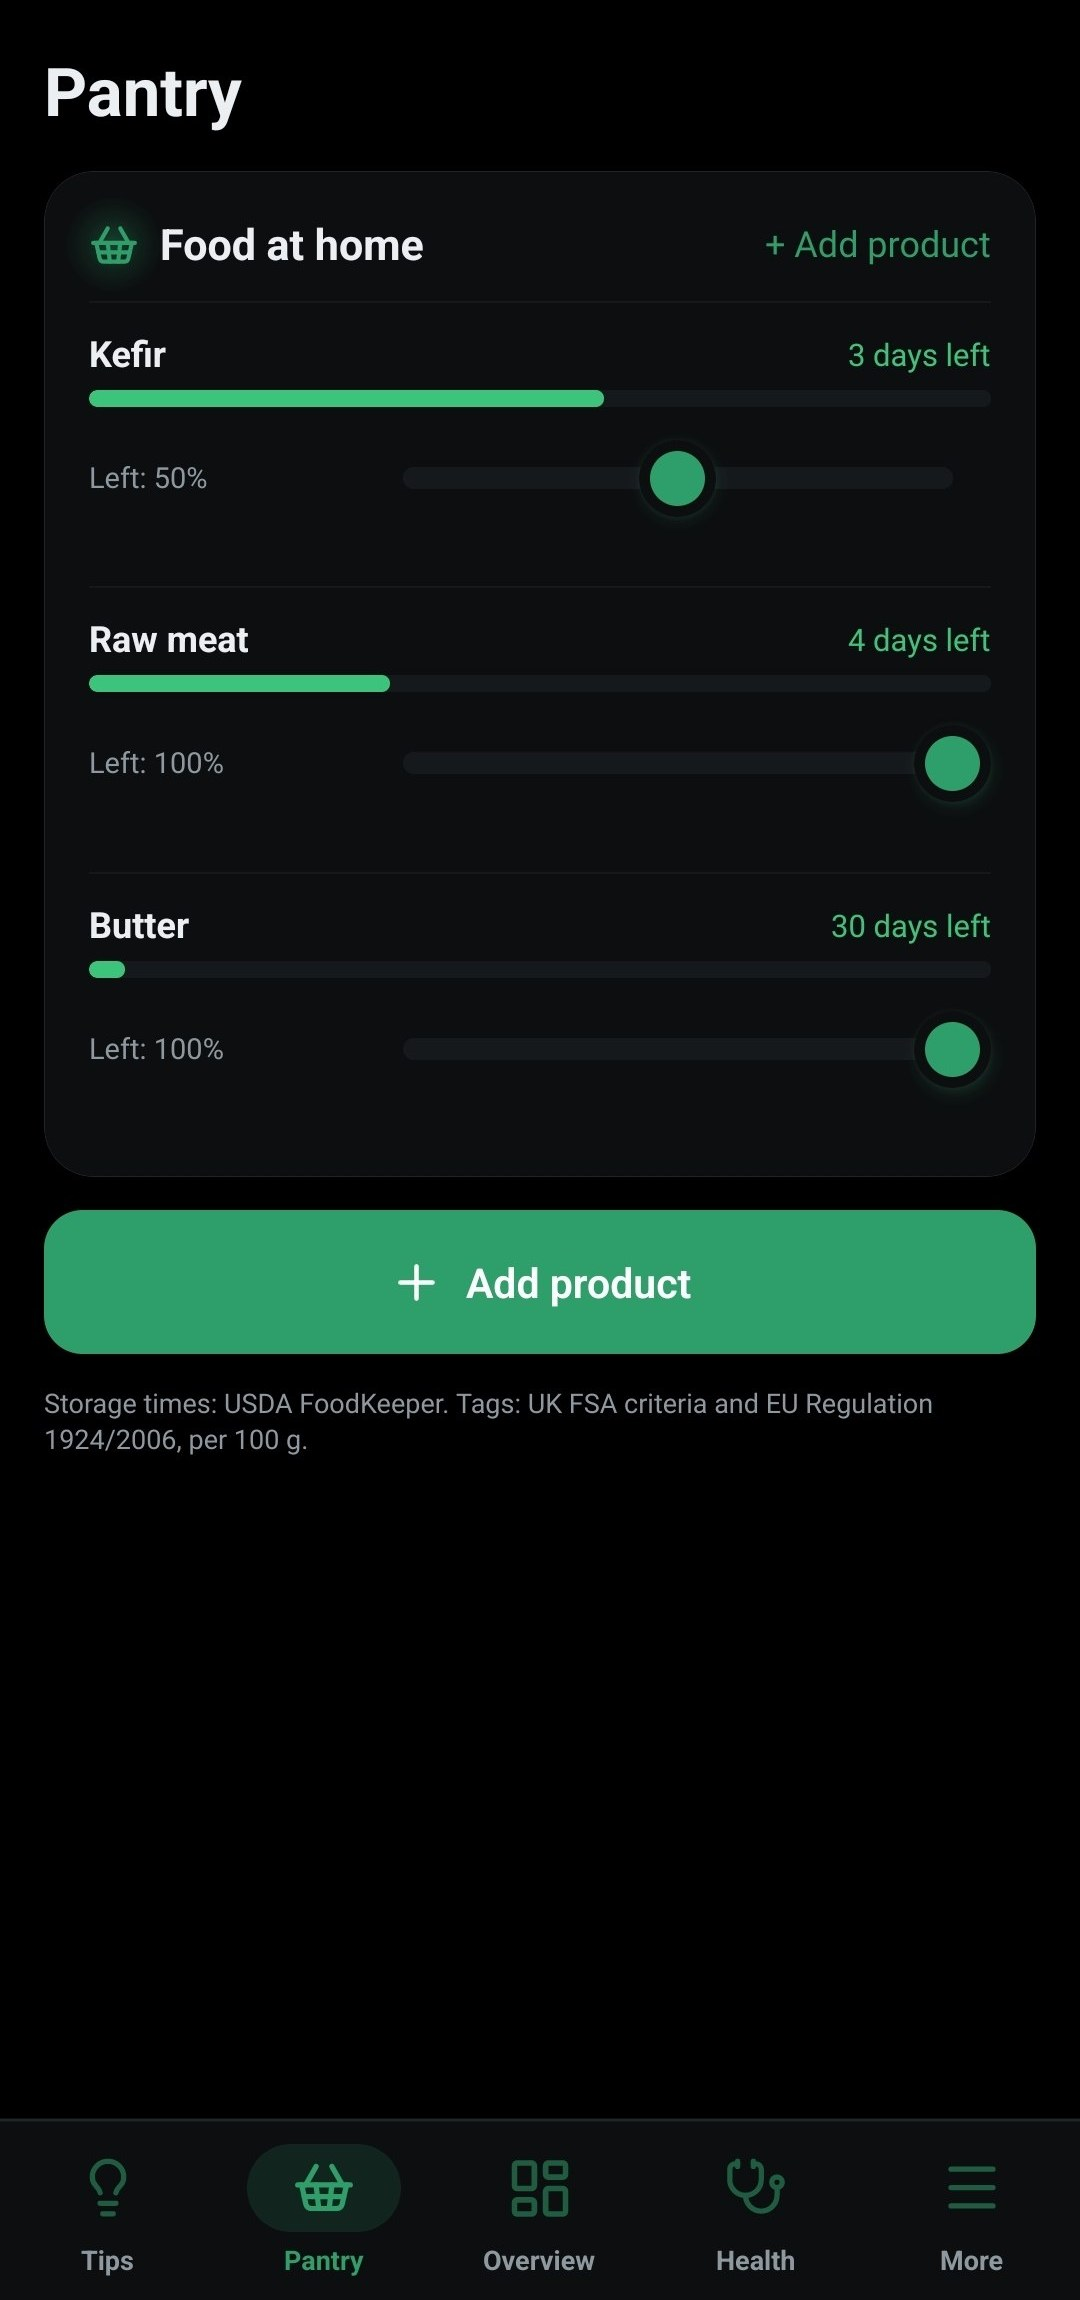
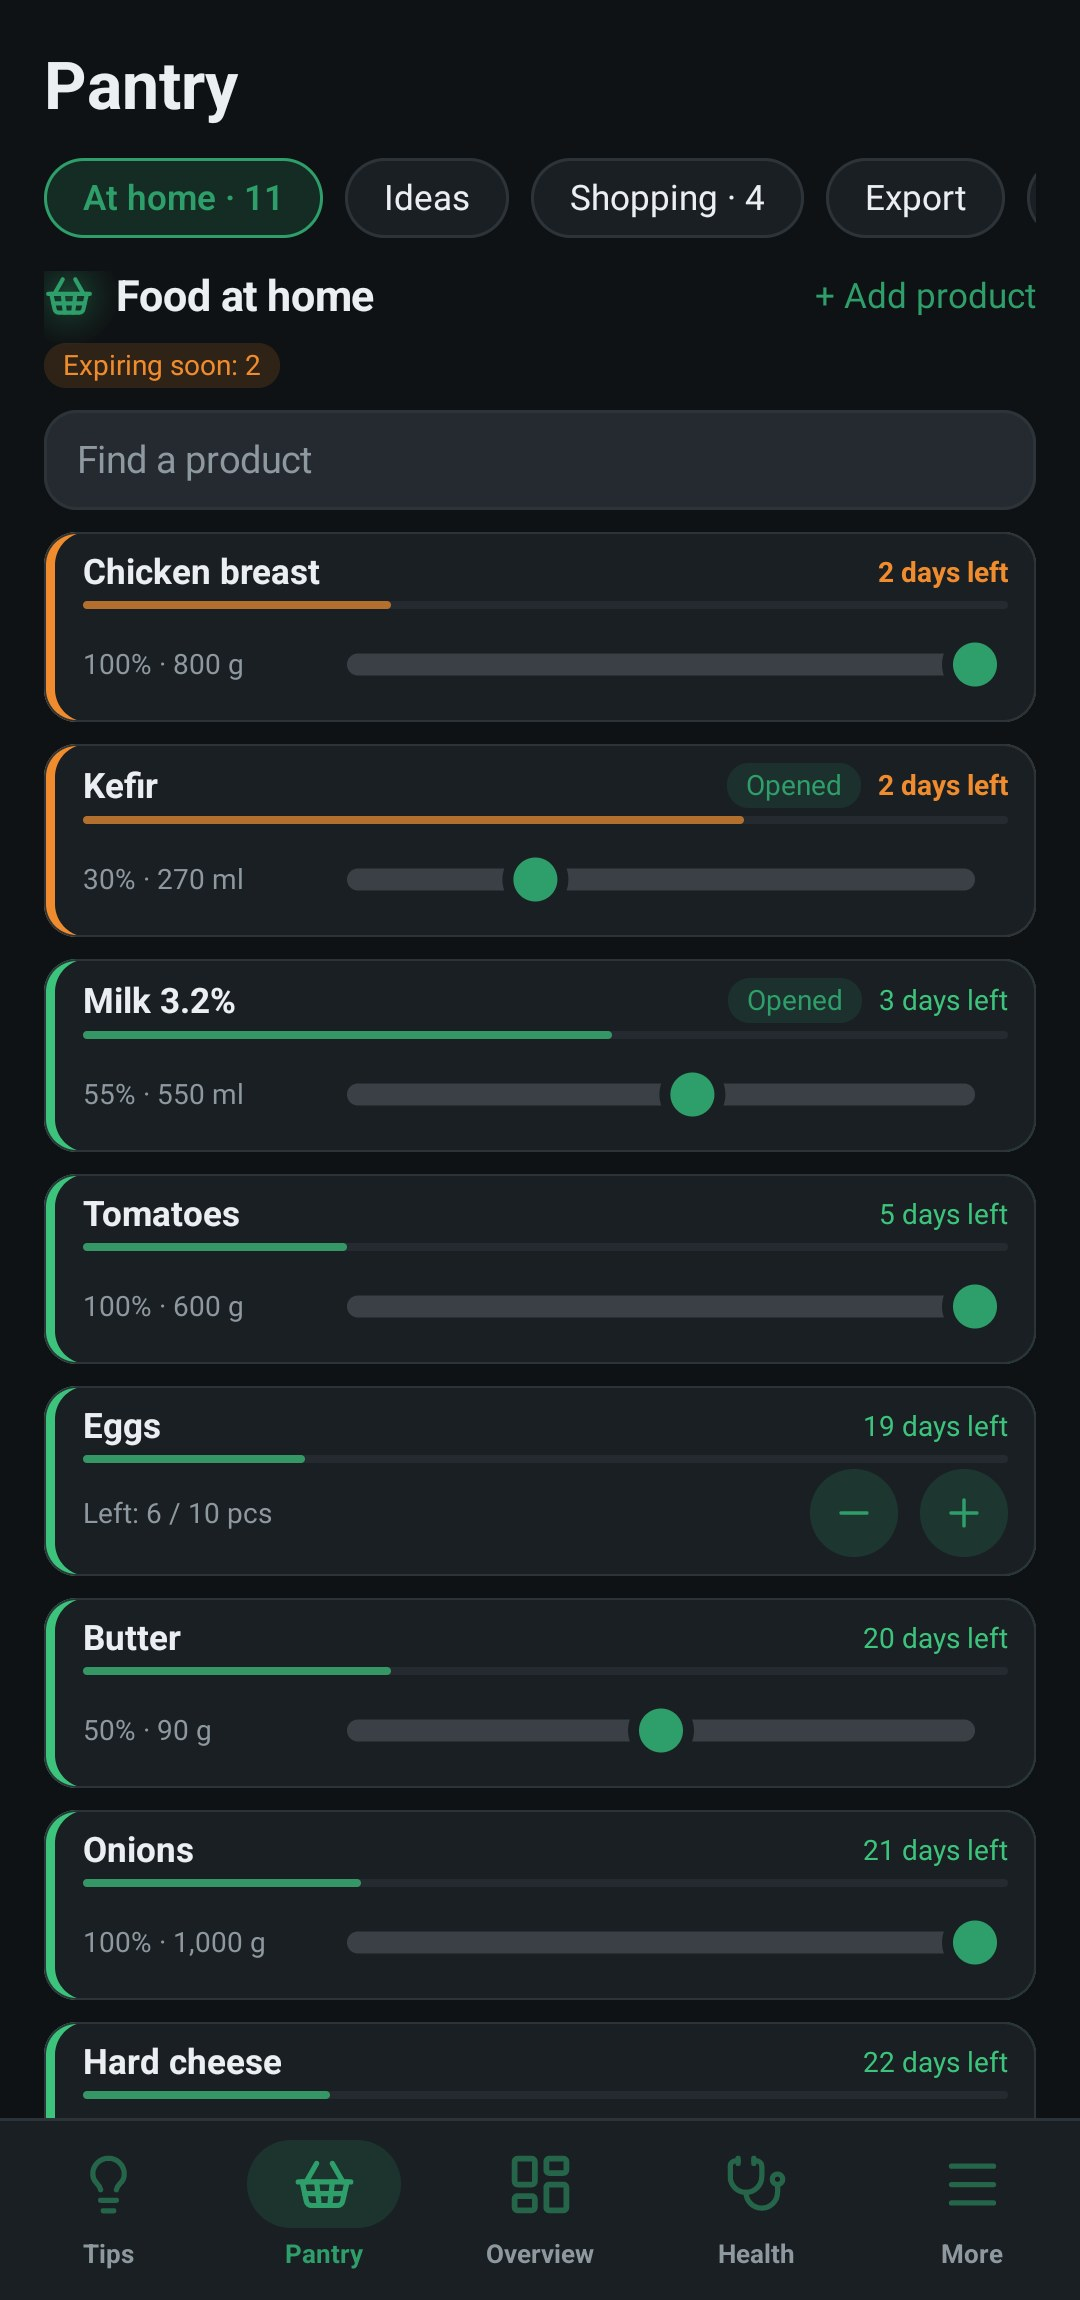
Release 0.9.0: store listing, promo screenshots, store builds
- Version 0.9.0 (13) with the reminders, day autofill, partial pantry use and
  time-scaled charts from the previous commit.
- Release workflow also publishes wellness-X-store.apk and builds the .aab
  without the GitHub update check, for app stores; the update check skips
  *-store.apk assets.
- Store listing texts (RU/EN) mention that every section can be turned off;
  promo panorama slices as phone screenshots; fresh README and site shots.

diff --git a/app/src/main/java/io/github/timmylich/wellness/lib/System.kt b/app/src/main/java/io/github/timmylich/wellness/lib/System.kt
@@ -156,7 +156,7 @@ object Updates {
         val tag = (j["tag_name"] as? JsonPrimitive)?.contentOrNull ?: return@runCatching null
         if ((j["draft"] as? JsonPrimitive)?.booleanOrNull == true || (j["prerelease"] as? JsonPrimitive)?.booleanOrNull == true) return@runCatching null
         val apk = (j["assets"] as? JsonArray)?.firstNotNullOfOrNull { a ->
-          ((a as? JsonObject)?.get("browser_download_url") as? JsonPrimitive)?.contentOrNull?.takeIf { it.endsWith(".apk") && it.startsWith("https://github.com/") }
+          ((a as? JsonObject)?.get("browser_download_url") as? JsonPrimitive)?.contentOrNull?.takeIf { it.endsWith(".apk") && !it.endsWith("-store.apk") && it.startsWith("https://github.com/") }
         }
         Release(tag.removePrefix("v").removePrefix("V"), (j["html_url"] as? JsonPrimitive)?.contentOrNull ?: "$REPO_URL/releases/latest", apk)
       } finally {

diff --git a/README.md b/README.md
@@ -31,15 +31,7 @@
 ---
 
 <p align="center">
-  <img src="docs/screenshots/summary.jpg" width="24%" alt="Daily summary" />
-  <img src="docs/screenshots/add_food.jpg" width="24%" alt="Adding food" />
-  <img src="docs/screenshots/heart.jpg" width="24%" alt="Blood pressure and pulse" />
-  <img src="docs/screenshots/tips.jpg" width="24%" alt="Health tips" />
-</p>
-<p align="center">
-  <img src="docs/screenshots/pantry.jpg" width="24%" alt="Pantry with expiry dates" />
-  <img src="docs/screenshots/pantry_add_product.jpg" width="24%" alt="Adding a pantry product" />
-  <img src="docs/screenshots/more.jpg" width="24%" alt="Settings and more" />
+  <img src="docs/screenshots/promo_en.jpg" width="100%" alt="Wellness: daily summary, food log, pantry and heart charts" />
 </p>
 
 ## Features
@@ -71,7 +63,7 @@
   chats with your product list, eaten / thrown-away statistics and history. Share it with your family through one code:
   no accounts, end-to-end encrypted.
 - **Tips** — fresh air, drinking water, cancer prevention, sun, back health, sleep, nutrition.
-- **Yours to configure** — English and Russian, sections on/off, theme and accent colour,
+- **Yours to configure** — every section can be turned off; English and Russian, theme and accent colour,
   animations, goal pace slider, custom nutrient limits, JSON export/import with a reminder
   every 30 days (save to Google Drive or send to Telegram).
 
@@ -168,21 +160,27 @@ Icons: Lucide (ISC).
 ## По-русски
 
 **Wellness** — бесплатный трекер здоровья с открытым кодом. Без рекламы, регистрации, слежки и
-сервисов Google: все данные хранятся только на телефоне.
+сервисов Google: все данные хранятся только на телефоне. Каждый раздел можно отключить, а нормы,
+цели, кнопки, тему и цвет — настроить под себя.
+
+<p align="center">
+  <img src="docs/screenshots/promo_ru.jpg" width="100%" alt="Wellness: сводка, дневник питания, продукты дома и графики давления" />
+</p>
 
 - **Быстрое и нативное**: Kotlin и Jetpack Compose, запуск меньше чем за полсекунды, плавные
   свайпы и графики, APK 1,8 МБ, без JavaScript-движка и сервисов Google.
 - **Еда**: 12 шкал с личными диапазонами (минимум — цель — максимум), офлайн-база продуктов,
   поиск в Open Food Facts и USDA, штрихкоды, счёт по штукам, свои продукты на основе готовых,
-  редактирование записей, энергобаланс, советы.
+  редактирование записей, энергобаланс, советы; если забыли записать день — заполнение оценкой.
 - **Вода**: большая кнопка для воды и отдельная для напитков, графики, норма и опасный объём.
 - **Активность**: фоновый подсчёт шагов датчиком телефона (без Google Fit) или Health Connect,
-  шаблоны тренировок.
-- **Сердце**: давление и пульс, классификация, пульсовые зоны.
+  шаблоны тренировок, напоминания («8000 шагов», «разминка раз в 2 дня»).
+- **Сердце**: давление и пульс, классификация, пульсовые зоны, графики по реальному времени.
 - **Тело**: вес со взвешенным средним, % жира, талия, ИМТ, подходящий вес.
 - **Продукты** (по желанию): что есть дома, сроки годности, полоса свежести, вскрытые
-  упаковки, сколько осталось и напоминание за день до окончания срока; список покупок,
-  статистика «съедено / выброшено» и история. Можно вести вместе с семьёй по одному коду — без
+  упаковки, сколько осталось и напоминание за день до окончания срока; «съедено / выброшено»
+  целиком или частично, идеи блюд из того, что есть, запросы для ИИ-чатов, список покупок,
+  статистика и история. Можно вести вместе с семьёй по одному коду — без
   регистрации, со сквозным шифрованием.
 - **Советы**: воздух, вода, профилактика рака, солнце, спина, сон.
 

diff --git a/docs/stores.md b/docs/stores.md
@@ -4,21 +4,21 @@ Everything a store asks for is already in the repository:
 
 | What | Where |
 | --- | --- |
-| APK and AAB (signed) | GitHub → Releases (built by `.github/workflows/release.yml`) |
+| APK and AAB (signed) | GitHub → Releases (built by `.github/workflows/release.yml`). For stores upload `wellness-X-store.apk` or the `.aab`: they have no GitHub update check, which stores forbid. `wellness-X.apk` is for direct downloads |
 | Icon 512×512 | `fastlane/metadata/android/*/images/icon.png` |
 | Feature graphic 1024×500 | `fastlane/metadata/android/*/images/featureGraphic.png` |
 | Short / full description | `fastlane/metadata/android/*/short_description.txt`, `full_description.txt` |
 | What's new | `fastlane/metadata/android/*/changelogs/<versionCode>.txt` |
 | Privacy policy URL | `https://github.com/timmylich/wellness/blob/main/docs/PRIVACY.md` |
-| Screenshots | add 4–8 PNGs to `fastlane/metadata/android/*/images/phoneScreenshots/` |
+| Screenshots | `fastlane/metadata/android/*/images/phoneScreenshots/1–4.png`: 1080×1920 slices of one promo panorama, upload in order |
 
 Typical form answers: category **Health & Fitness**; contains ads **no**; in-app purchases
 **no**; target audience **18+** (health data); data collected **none** (everything stays on the
 device); content rating questionnaire: no violence, no user-generated sharing → "Everyone / 3+".
 "Medical device": no, informational only.
 
-Always upload the **same signed file** from GitHub Releases, so all stores can update each
-other's installs.
+Always upload the **same signed store file** from GitHub Releases (all builds share one key), so all
+stores can update each other's installs.
 
 ## Store by store
 

diff --git a/CHANGELOG.md b/CHANGELOG.md
@@ -6,6 +6,8 @@ uses [Semantic Versioning](https://semver.org/).
 
 ## [Unreleased]
 
+## [0.9.0] — 2026-11-24
+
 ### Added
 
 - Activity reminders: walk at least N steps or do a task (e.g. a warm-up) every 1, 2, 3 or 7
@@ -24,6 +26,10 @@ uses [Semantic Versioning](https://semver.org/).
 - Heart and body charts space points by time, so a month between measurements looks longer than
   three days.
 - Pantry statistics count a product once even when it was used up in parts.
+- Releases also carry `wellness-X-store.apk` and the `.aab` without the GitHub update check, for
+  app stores; the update check never offers the store APK.
+- New store listing texts and promo screenshots (RU / EN); fresh screenshots in the README and
+  on the website.
 
 - The "fill in yesterday" card slides away after an answer.
 
